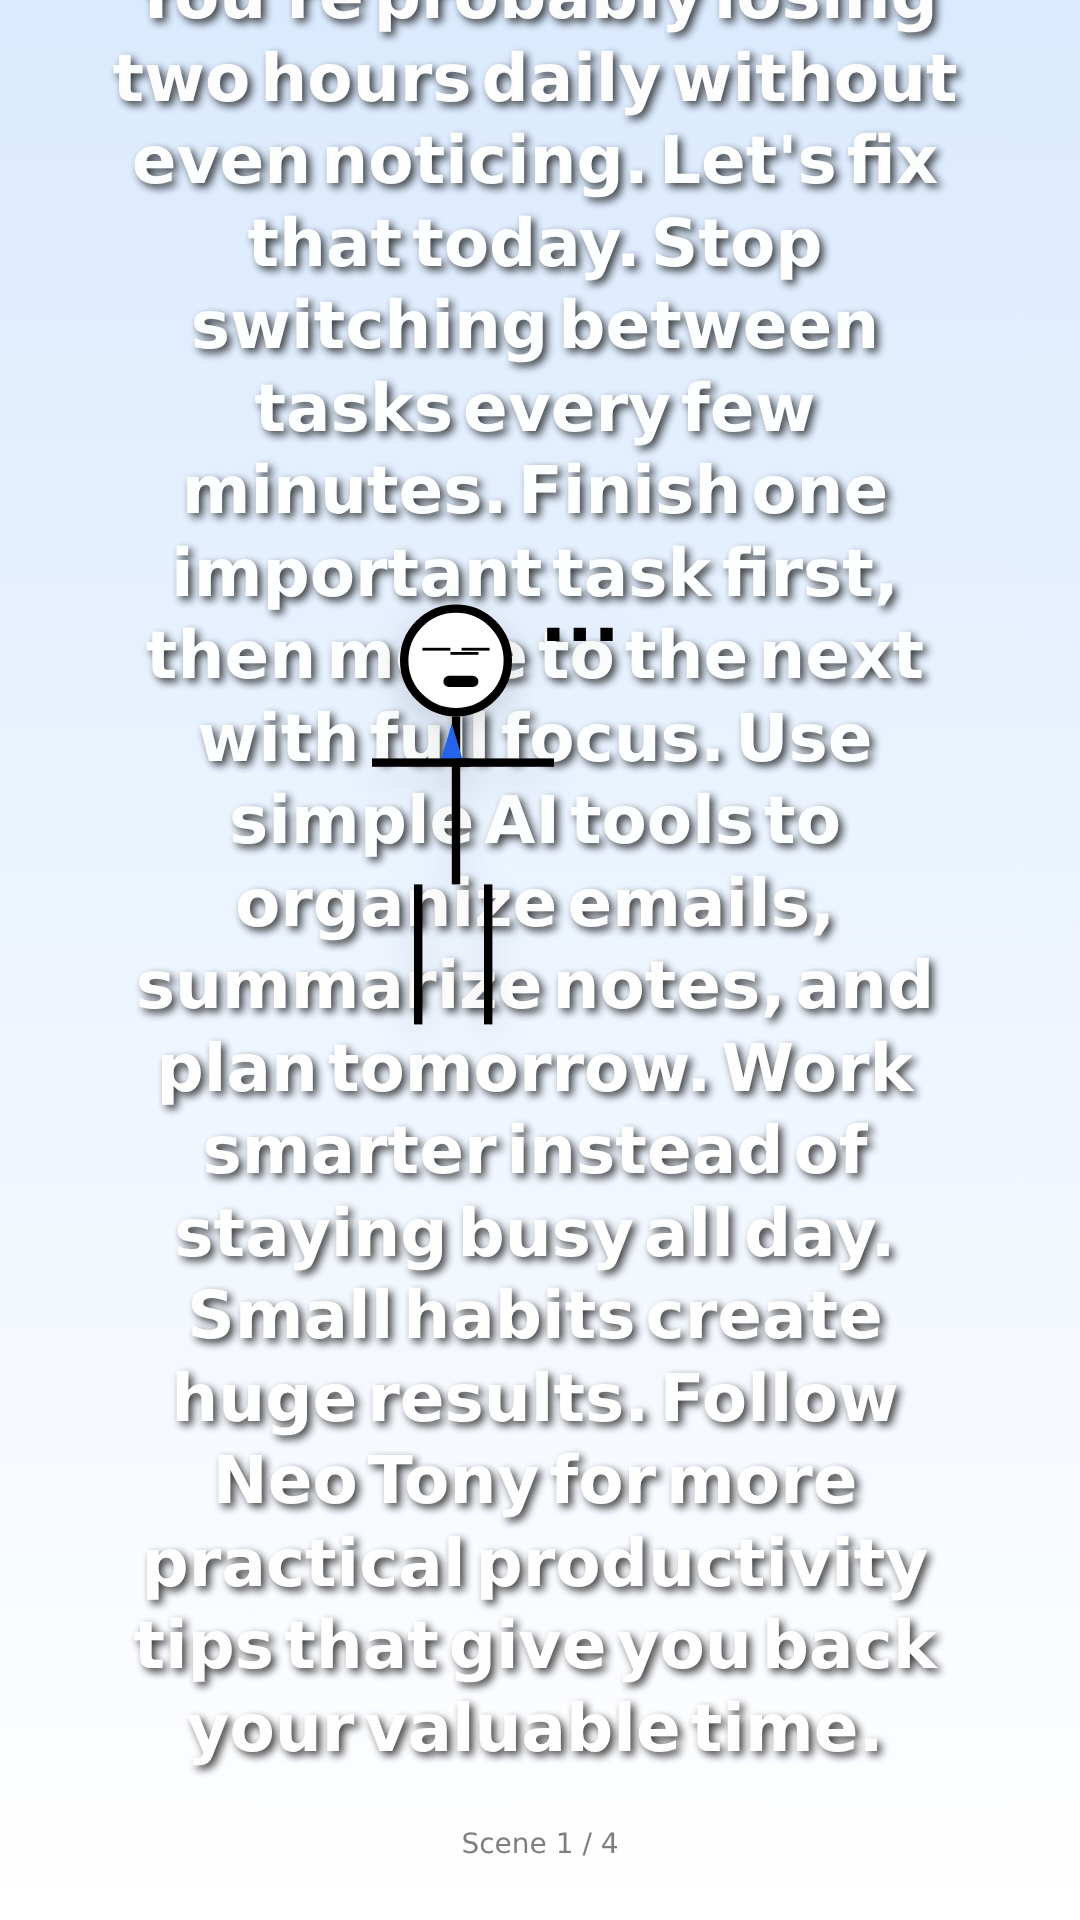
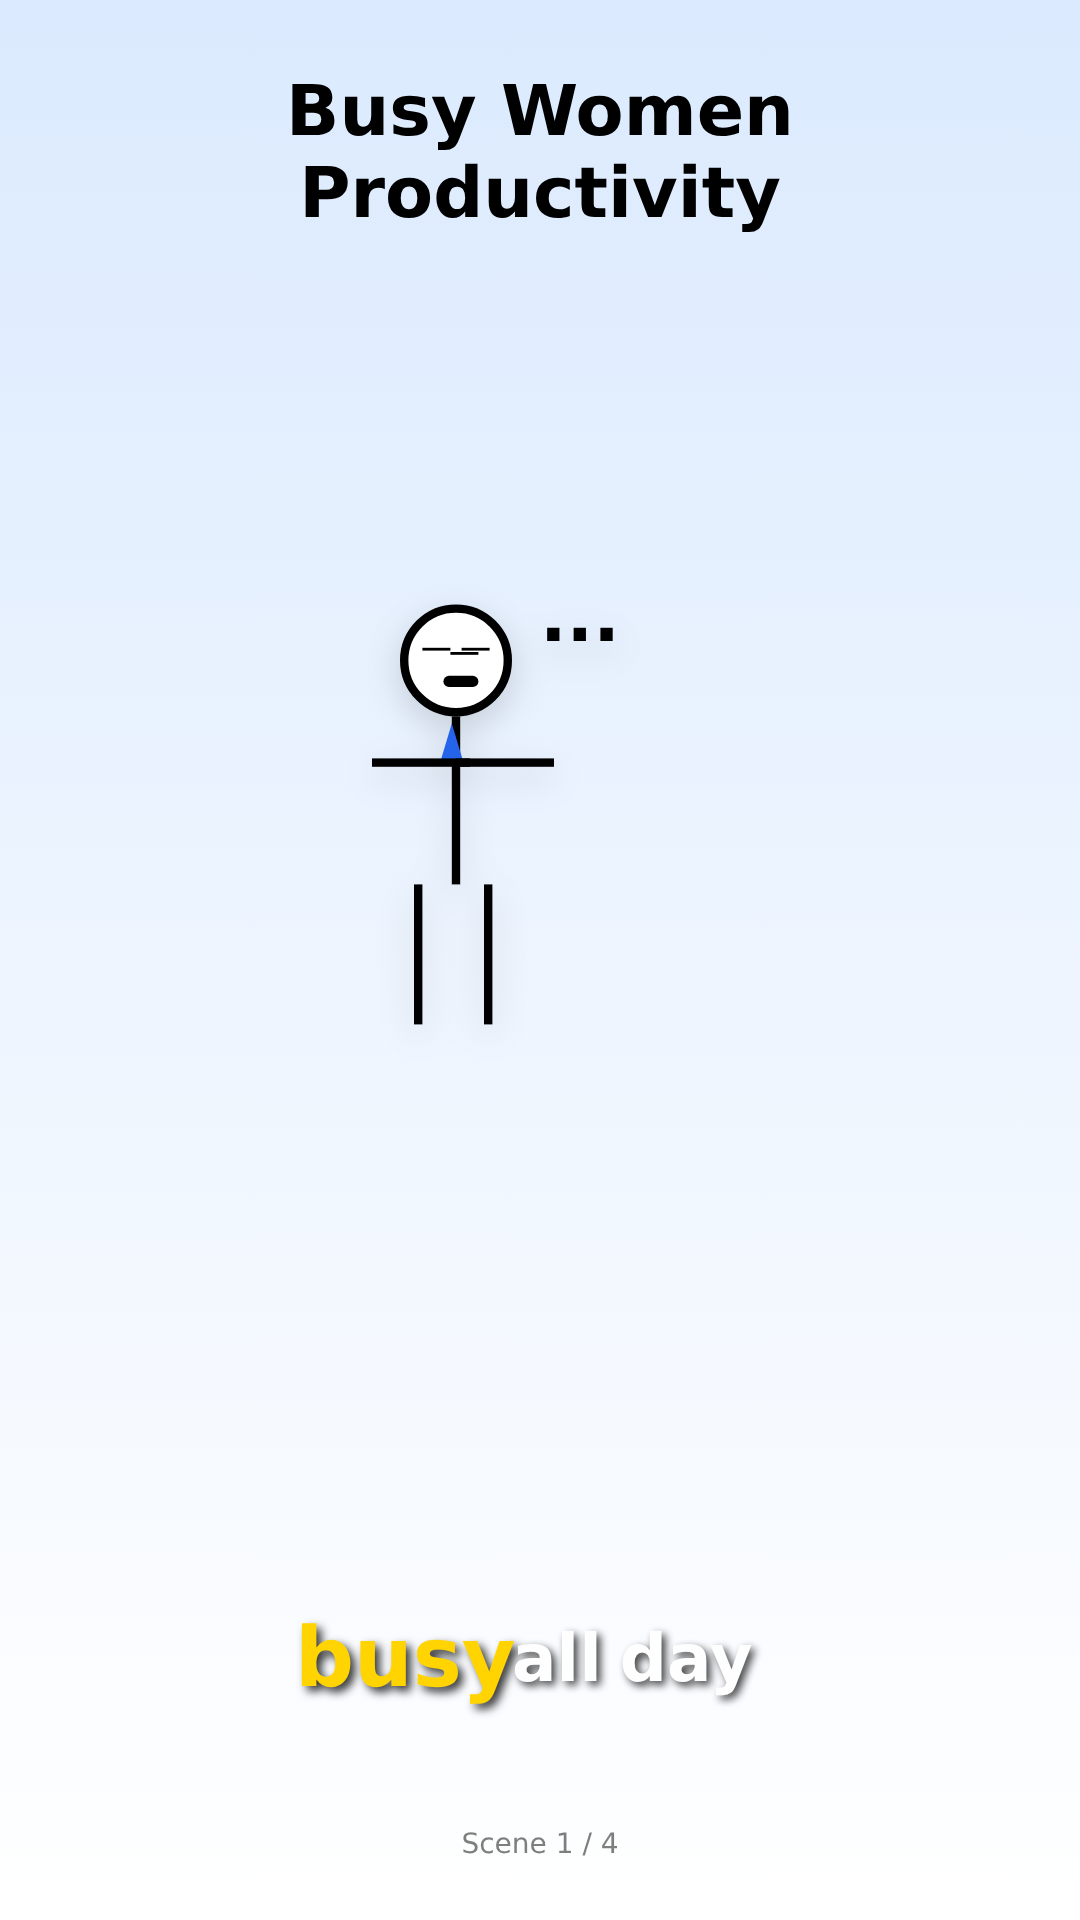
OK

Changed region(s): [[0.0917, 0.0, 0.8861, 0.9375]]

diff --git a/my-video/src/subtitle/PhraseEngine.ts b/my-video/src/subtitle/PhraseEngine.ts
@@ -1,0 +1,87 @@
+import { SubtitleWord } from "./SubtitleEngine";
+
+export interface SubtitlePhrase {
+  text: string;
+  start: number;
+  end: number;
+  words: SubtitleWord[];
+}
+
+export function buildPhrases(
+  words: SubtitleWord[],
+  maxWords = 4,
+  maxCharacters = 22
+): SubtitlePhrase[] {
+
+  const phrases: SubtitlePhrase[] = [];
+
+  let currentWords: SubtitleWord[] = [];
+  let currentLength = 0;
+
+  for (const word of words) {
+
+    const nextLength =
+      currentLength +
+      word.word.length +
+      (currentWords.length > 0 ? 1 : 0);
+
+    const shouldBreak =
+      currentWords.length >= maxWords ||
+      nextLength > maxCharacters;
+
+    if (shouldBreak && currentWords.length > 0) {
+
+      phrases.push({
+
+        text: currentWords
+          .map(w => w.word)
+          .join(" "),
+
+        start: currentWords[0].start,
+
+        end:
+          currentWords[
+            currentWords.length - 1
+          ].end,
+
+        words: [...currentWords],
+
+      });
+
+      currentWords = [];
+      currentLength = 0;
+
+    }
+
+    currentWords.push(word);
+
+    currentLength +=
+      word.word.length +
+      (currentWords.length > 1 ? 1 : 0);
+
+  }
+
+  if (currentWords.length > 0) {
+
+    phrases.push({
+
+      text: currentWords
+        .map(w => w.word)
+        .join(" "),
+
+      start: currentWords[0].start,
+
+      end:
+        currentWords[
+          currentWords.length - 1
+        ].end,
+
+      words: [...currentWords],
+
+    });
+
+  }
+
+  return phrases;
+
+}

diff --git a/my-video/src/subtitle/PhraseSubtitleEngine.ts b/my-video/src/subtitle/PhraseSubtitleEngine.ts
@@ -1,0 +1,84 @@
+import { SubtitlePhrase } from "./PhraseEngine";
+
+export interface PhraseState {
+
+  previousPhrase: SubtitlePhrase | null;
+
+  currentPhrase: SubtitlePhrase | null;
+
+  nextPhrase: SubtitlePhrase | null;
+
+  currentWordIndex: number;
+
+}
+
+export function getPhraseState(
+
+  phrases: SubtitlePhrase[],
+
+  currentTime: number
+
+): PhraseState {
+
+  const currentPhraseIndex = phrases.findIndex(
+
+    (phrase) =>
+
+      currentTime >= phrase.start &&
+      currentTime <= phrase.end
+
+  );
+
+  if (currentPhraseIndex < 0) {
+
+    return {
+
+      previousPhrase: null,
+
+      currentPhrase: null,
+
+      nextPhrase: null,
+
+      currentWordIndex: -1,
+
+    };
+
+  }
+
+  const currentPhrase =
+    phrases[currentPhraseIndex];
+
+  const previousPhrase =
+    currentPhraseIndex > 0
+      ? phrases[currentPhraseIndex - 1]
+      : null;
+
+  const nextPhrase =
+    currentPhraseIndex <
+    phrases.length - 1
+      ? phrases[currentPhraseIndex + 1]
+      : null;
+
+  const currentWordIndex =
+    currentPhrase.words.findIndex(
+
+      (word) =>
+
+        currentTime >= word.start &&
+        currentTime <= word.end
+
+    );
+
+  return {
+
+    previousPhrase,
+
+    currentPhrase,
+
+    nextPhrase,
+
+    currentWordIndex,
+
+  };
+
+}

diff --git a/my-video/src/subtitle/Subtitle.tsx b/my-video/src/subtitle/Subtitle.tsx
@@ -6,11 +6,7 @@ import {
 import subtitles from "../../public/subtitles/current.json";
 
 import { SubtitleStyle } from "./SubtitleStyle";
-
-import {
-  getSubtitleState,
-} from "./SubtitleEngine";
-
+import { getSubtitleState } from "./SubtitleEngine";
 import {
   getWordScale,
   getWordOpacity,
@@ -20,52 +16,82 @@ export const Subtitle = () => {
 
   const frame = useCurrentFrame();
 
-  const currentTime = frame / 30;
+  const fps = 30;
+
+  const currentTime = frame / fps;
 
   const state = getSubtitleState(
     subtitles,
     currentTime
   );
 
+  const start = Math.max(
+    0,
+    state.currentIndex - 2
+  );
+
+  const end = Math.min(
+    subtitles.length,
+    state.currentIndex + 3
+  );
+
+  const visibleWords =
+    state.currentIndex < 0
+      ? []
+      : subtitles.slice(start, end);
+
   return (
     <AbsoluteFill
       style={{
         justifyContent: "flex-end",
         alignItems: "center",
-        paddingBottom: 150,
+        paddingBottom: 220,
         pointerEvents: "none",
       }}
     >
-      <div style={SubtitleStyle.container}>
-        {subtitles.map((word, index) => {
+      <div
+        style={{
+          ...SubtitleStyle.container,
+          maxWidth: 860,
+        }}
+      >
+        {visibleWords.map((word, i) => {
+
+          const index = start + i;
 
           const active =
             index === state.currentIndex;
 
-          const scale =
-            getWordScale(active, frame);
-
-          const opacity =
-            getWordOpacity(active);
-
           return (
+
             <span
               key={index}
               style={{
-                display: "inline-block",
+                display: "inline",
                 marginRight: 10,
-                transform: `scale(${scale})`,
-                opacity,
+
+                transform: `scale(${getWordScale(
+                  active,
+                  frame
+                )})`,
+
+                opacity:
+                  getWordOpacity(active),
 
                 ...(active
                   ? SubtitleStyle.currentWord
-                  : index < state.currentIndex
+                  : index <
+                    state.currentIndex
                   ? SubtitleStyle.previousWord
                   : SubtitleStyle.nextWord),
+
               }}
             >
+
               {word.word}
+
             </span>
+
           );
 
         })}

diff --git a/my-video/src/Composition.tsx b/my-video/src/Composition.tsx
@@ -42,15 +42,30 @@ script.video.scenes[currentSceneIndex];
   const sceneFrame = frame - sceneStart;
 
   const zoom = interpolate(
-    sceneFrame,
-    [0, 120],
-    [1, 1.08],
-    {
-      extrapolateLeft: "clamp",
-      extrapolateRight: "clamp",
-    }
+  sceneFrame,
+  [0, 90],
+  [1.00, 1.05],
+  {
+    extrapolateLeft: "clamp",
+    extrapolateRight: "clamp",
+  }
   );
 
+  const direction =
+  currentSceneIndex % 2 === 0
+    ? 1
+    : -1;
+
+  const translateX = interpolate(
+  sceneFrame,
+  [0, 90],
+  [0, direction * 18],
+  {
+    extrapolateLeft: "clamp",
+    extrapolateRight: "clamp",
+  }
+  );
+  
   return (
     <AbsoluteFill
       style={{
@@ -63,6 +78,11 @@ script.video.scenes[currentSceneIndex];
         src={staticFile(`audio/${script.audio.file}`)}
       />
 
+      {/* <Html5Audio
+        src={staticFile("bgm/main.mp3")}
+        volume={0.12}
+      /> */}
+      
       <Background
         background={scene.visual.background}
       />
@@ -78,12 +98,15 @@ script.video.scenes[currentSceneIndex];
           zIndex: 20,
         }}
       >
-        {script.metadata.topic}
+        {script.content.topic}
       </div>
 
       <div
         style={{
-          transform: `scale(${zoom})`,
+          transform: `
+          translateX(${translateX}px)
+          scale(${zoom})
+          `,
           zIndex: 10,
         }}
       >

diff --git a/my-video/src/subtitle/SubtitleStyle.ts b/my-video/src/subtitle/SubtitleStyle.ts
@@ -2,7 +2,7 @@ export const SubtitleStyle = {
 
   container: {
 
-    width: 860,
+    maxWidth: 860,
 
     textAlign: "center" as const,
 
@@ -11,6 +11,16 @@ export const SubtitleStyle = {
     fontWeight: "bold" as const,
 
     lineHeight: 1.25,
+
+    display: "flex",
+
+    flexWrap: "wrap" as const,
+
+    justifyContent: "center",
+
+    alignItems: "center",
+
+    gap: 8,
 
   },
 

diff --git a/my-video/src/ThumbnailComposition.tsx b/my-video/src/ThumbnailComposition.tsx
@@ -43,7 +43,7 @@ export const ThumbnailComposition = () => {
             "6px 6px 12px rgba(0,0,0,.8)",
         }}
       >
-        {script.metadata.topic}
+        {script.content.topic}
       </div>
 
     </AbsoluteFill>